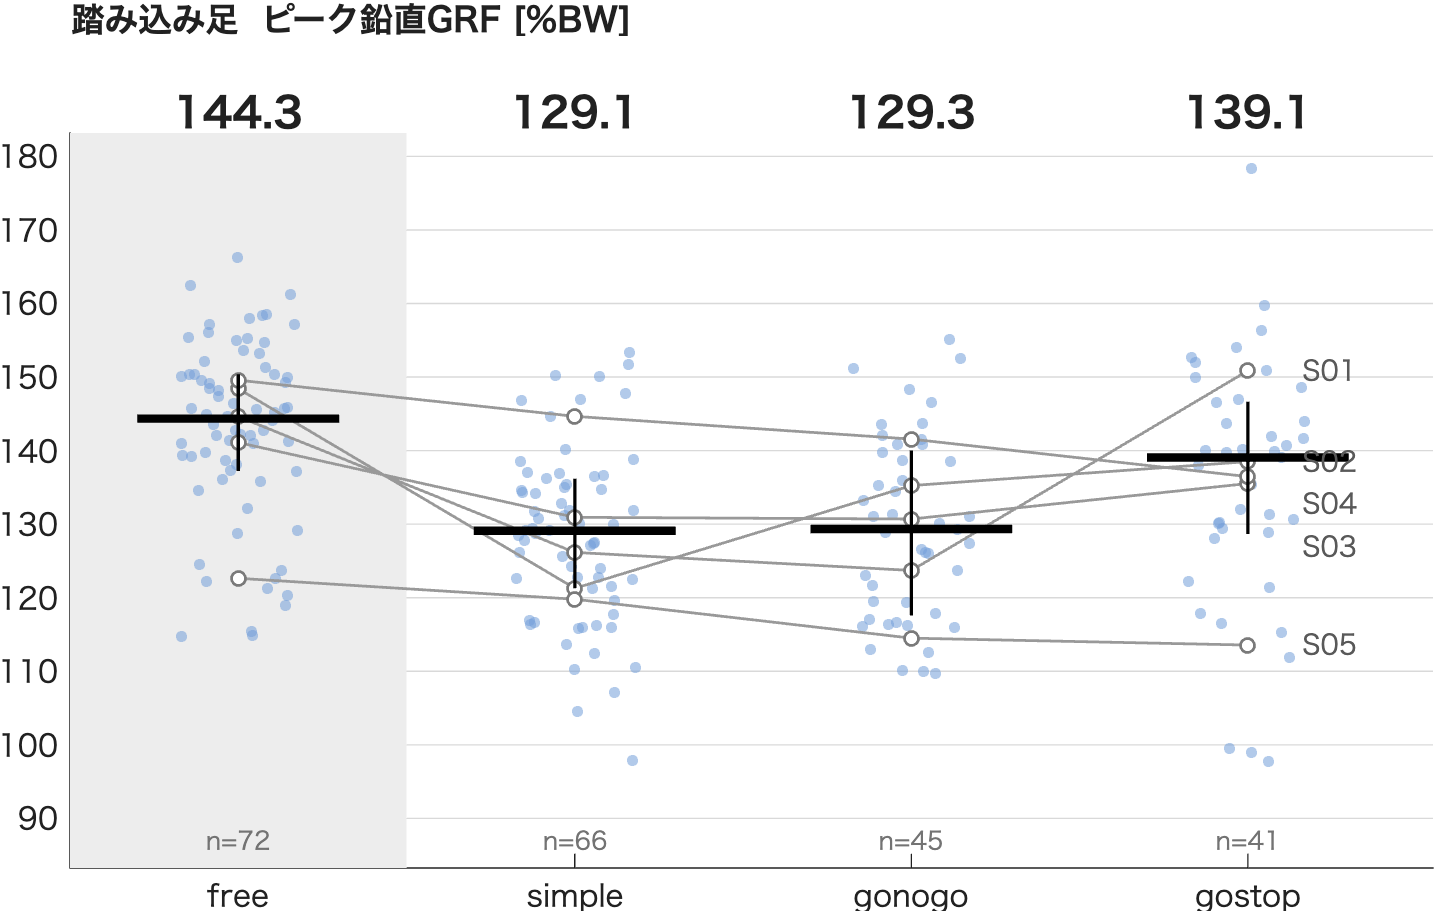
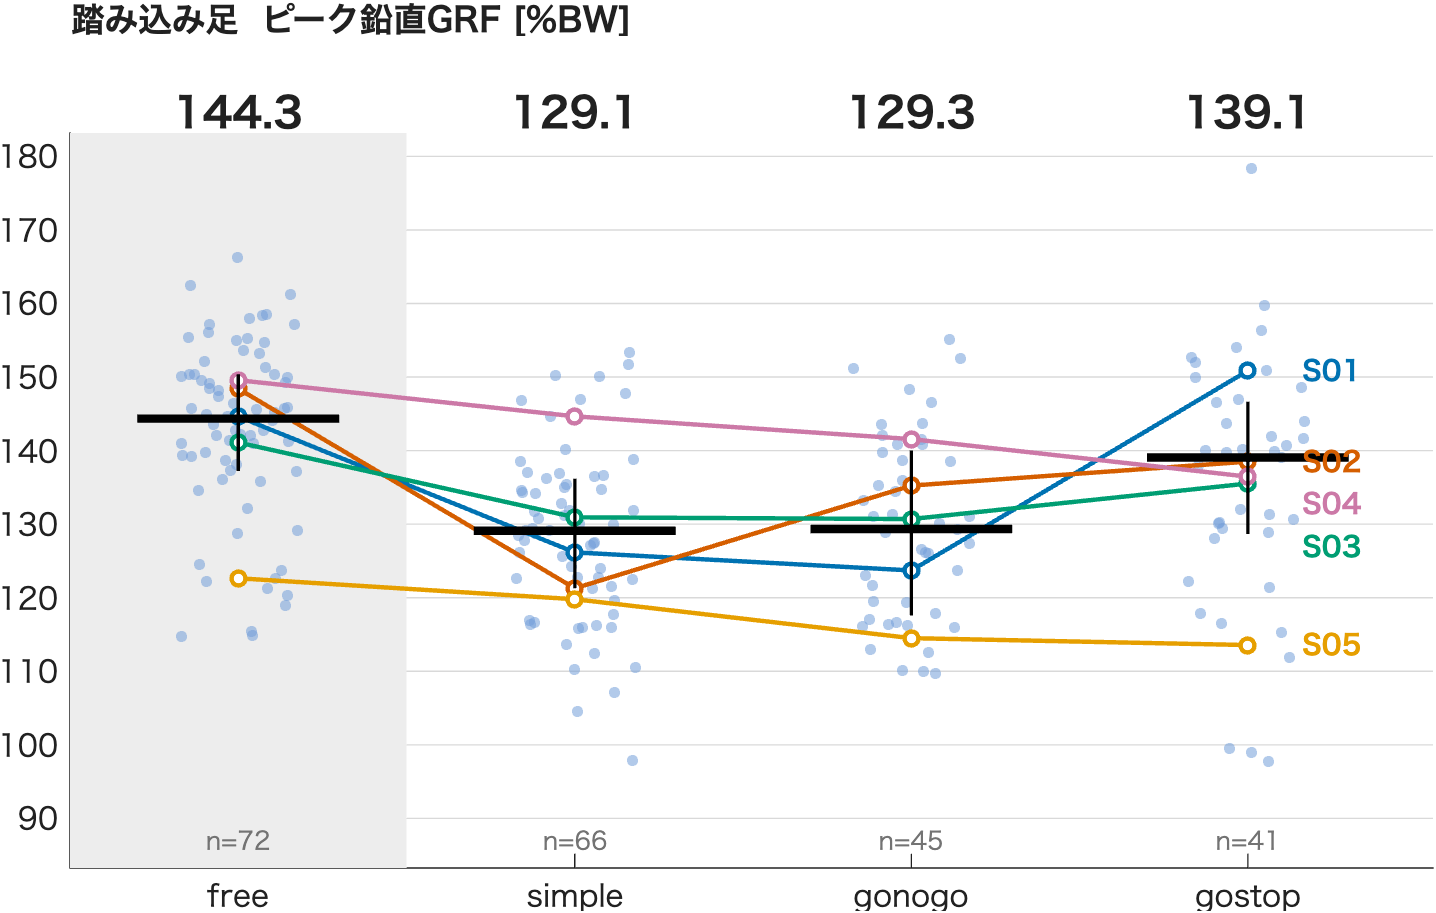
5.8 被験者ごとの色分け、代表試行のフォルダ集約、PNG のファイル名整理
- i0: 被験者ごとの線の色 SubjColor を追加（Okabe & Ito の推奨色から5色）。
  i1・i2・i4 が共通で読むので、図をまたいで同じ被験者が同じ色になる
- i1・i2・i4: 折れ線と被験者ラベルを色分けし、線を 1.6 pt に。凡例も修正
- i3: 被験者ごとの5枚を 代表試行プロット/ に出力するようにした。
  これまで手動コピーで中身が古くなっていた
- PNG のファイル名を指標名先頭に変更し、「新除外基準」を落とした
  （旧基準の図はすでに無く、対比する相手がいないため）
- log/2026-09-14_01.md を追加。有効試行の内訳（298→247→224→148）と、
  247→224 で落ちた23試行の理由を1本ずつ調べた結果を記録

diff --git a/Project002_反応時間課題バットスイング（加藤）/sandbox/5.8_踏み込み足Fzの立ち上がり/i1_plot_rfd_by_condition.m b/Project002_反応時間課題バットスイング（加藤）/sandbox/5.8_踏み込み足Fzの立ち上がり/i1_plot_rfd_by_condition.m
@@ -13,7 +13,7 @@
 %   SubjectArray, ConditionNameArray, nS, nC, nM
 %
 % 出力（このスクリプトと同じフォルダ）:
-%   条件別_全被験者_Fz立ち上がり_新除外基準.png ... 5指標を1枚にまとめた図
+%   Fz立ち上がり_条件別_全被験者.png ... 5指標を1枚にまとめた図
 %   個別グラフ/01_RT.png 〜 05_立ち上がり速度わりピーク力.png
 %     ... 同じパネルを指標ごとに1枚ずつ書き出したもの（スライドや原稿に貼る用）
 %
@@ -111,9 +111,12 @@ for im = 1:nM
         for ic = 1:nC
             if ~isempty(V{iS,ic,im}), subjMed(iS,ic) = median(V{iS,ic,im}) ; end
         end
-        plot(ax, 1:nC, subjMed(iS,:), '-', 'Color', lineColor, 'LineWidth', 1.0, ...
+        % ★ 灰一色だと折れ線の交差で被験者を追えない。i0 が決めた色を使う
+        %   （図をまたいで同じ被験者が同じ色になる）。線を太くしないと
+        %   細線では色が判別しにくい。
+        plot(ax, 1:nC, subjMed(iS,:), '-', 'Color', SubjColor(iS,:), 'LineWidth', 1.6, ...
             'Marker', 'o', 'MarkerSize', 5, 'MarkerFaceColor', 'w', ...
-            'MarkerEdgeColor', lineColor*0.8) ;
+            'MarkerEdgeColor', SubjColor(iS,:)) ;
     end
 
     % 条件の中央値（黒の太い横線）と四分位範囲（縦線）
@@ -140,8 +143,11 @@ for im = 1:nM
     end
     for k = 1:numel(order)
         iS = order(k) ;
+        % ★ ラベルも線と同じ色にする。重なり回避で位置をずらしているので、
+        %   色がないとどの線のラベルか分からなくなる。
         text(ax, nC+0.16, sv(k), sprintf('S%02d', SubjectArray(iS)), ...
-            'FontSize', 10, 'Color', [0.35 0.35 0.35], 'VerticalAlignment', 'middle') ;
+            'FontSize', 10, 'FontWeight', 'bold', 'Color', SubjColor(iS,:), ...
+            'VerticalAlignment', 'middle') ;
     end
 
     set(ax, 'XLim', [0.5 nC+0.55], 'YLim', [yLo yHi], ...
@@ -161,7 +167,7 @@ annotation('textbox', [0 (figH-47.25)/figH 1 44.1/figH], 'String', ...
     'FontSize', 15, 'FontWeight', 'bold', 'EdgeColor', 'none') ;
 
 annotation('textbox', [0 (figH-78.75)/figH 1 33.6/figH], 'String', ...
-    ['黒い横線 = 条件の中央値（縦線は四分位範囲） / 灰の折れ線 = 被験者ごとの中央値 / ' ...
+    ['黒い横線 = 条件の中央値（縦線は四分位範囲） / 色つきの折れ線 = 被験者ごとの中央値（色は被験者に対応） / ' ...
      '青点 = 個々の試行   ※ free は自己ペース条件のため参考値（網掛け）'], ...
     'HorizontalAlignment', 'center', 'VerticalAlignment', 'middle', ...
     'FontSize', 10.5, 'Color', [0.30 0.30 0.30], 'EdgeColor', 'none') ;
@@ -208,6 +214,9 @@ end
 
 %% ---- 7. PNG 出力 ----
 
-outPath = fullfile(thisDir, '条件別_全被験者_Fz立ち上がり_新除外基準.png') ;
+% ★ ファイル名は指標名を先頭に置く（2026-09-14）。フォルダを開いたときに
+%   何のグラフか一目で分かるようにするため。「新除外基準」は旧基準の図が
+%   もう無いので落とした。
+outPath = fullfile(thisDir, 'Fz立ち上がり_条件別_全被験者.png') ;
 exportgraphics(fig, outPath, 'Resolution', 200) ;
 fprintf('出力しました: %s\n', outPath) ;

diff --git a/Project002_反応時間課題バットスイング（加藤）/sandbox/5.8_踏み込み足Fzの立ち上がり/i4_plot_fz_at_peakvel.m b/Project002_反応時間課題バットスイング（加藤）/sandbox/5.8_踏み込み足Fzの立ち上がり/i4_plot_fz_at_peakvel.m
@@ -11,7 +11,7 @@
 %   SubjectArray, ConditionNameArray, nS, nC, Diag
 %
 % 出力:
-%   条件別_全被験者_スイング速度ピーク時Fz.png（このスクリプトと同じフォルダ）
+%   スイング速度ピーク時Fz_条件別_全被験者.png（このスクリプトと同じフォルダ）
 %
 % 指標の定義:
 %   スイング速度ピーク時の踏み込み足Fz [%BW]
@@ -110,9 +110,10 @@ for iS = 1:nS
     for ic = 1:nC
         if ~isempty(Vfz{iS,ic}), subjMed(iS,ic) = median(Vfz{iS,ic}) ; end
     end
-    plot(ax, 1:nC, subjMed(iS,:), '-', 'Color', lineColor, 'LineWidth', 1.0, ...
+    % ★ 色は i0 の SubjColor（図をまたいで同じ被験者が同じ色になる）。
+    plot(ax, 1:nC, subjMed(iS,:), '-', 'Color', SubjColor(iS,:), 'LineWidth', 1.6, ...
         'Marker', 'o', 'MarkerSize', 5, 'MarkerFaceColor', 'w', ...
-        'MarkerEdgeColor', lineColor*0.8) ;
+        'MarkerEdgeColor', SubjColor(iS,:)) ;
 end
 
 % 条件の中央値（黒の太い横線）と四分位範囲（縦線）
@@ -137,7 +138,8 @@ end
 for k = 1:numel(order)
     iS = order(k) ;
     text(ax, nC+0.16, sv(k), sprintf('S%02d', SubjectArray(iS)), ...
-        'FontSize', 10, 'Color', [0.35 0.35 0.35], 'VerticalAlignment', 'middle') ;
+        'FontSize', 10, 'FontWeight', 'bold', 'Color', SubjColor(iS,:), ...
+        'VerticalAlignment', 'middle') ;
 end
 
 set(ax, 'XLim', [0.5 nC+0.55], 'YLim', [yLo yHi], ...
@@ -152,7 +154,7 @@ annotation('textbox', [0 (figH-42)/figH 1 34/figH], 'String', ...
     'FontSize', 15, 'FontWeight', 'bold', 'EdgeColor', 'none') ;
 
 annotation('textbox', [0 (figH-72)/figH 1 30/figH], 'String', ...
-    ['黒い横線 = 条件の中央値（縦線は四分位範囲） / 灰の折れ線 = 被験者ごとの中央値 / ' ...
+    ['黒い横線 = 条件の中央値（縦線は四分位範囲） / 色つきの折れ線 = 被験者ごとの中央値（色は被験者に対応） / ' ...
      '青点 = 個々の試行   ※ free は自己ペース条件のため参考値（網掛け）'], ...
     'HorizontalAlignment', 'center', 'VerticalAlignment', 'middle', ...
     'FontSize', 10.5, 'Color', [0.30 0.30 0.30], 'EdgeColor', 'none') ;
@@ -171,6 +173,7 @@ annotation('textbox', [0 8/figH 1 100/figH], 'String', ...
 
 %% ---- 7. PNG 出力 ----
 
-outPath = fullfile(thisDir, '条件別_全被験者_スイング速度ピーク時Fz.png') ;
+% ★ ファイル名は指標名を先頭に置く（2026-09-14。i1 と同じ方針）。
+outPath = fullfile(thisDir, 'スイング速度ピーク時Fz_条件別_全被験者.png') ;
 exportgraphics(fig, outPath, 'Resolution', 200) ;
 fprintf('出力しました: %s\n', outPath) ;

diff --git a/Project002_反応時間課題バットスイング（加藤）/sandbox/5.8_踏み込み足Fzの立ち上がり/i2_plot_cv_by_condition.m b/Project002_反応時間課題バットスイング（加藤）/sandbox/5.8_踏み込み足Fzの立ち上がり/i2_plot_cv_by_condition.m
@@ -180,9 +180,11 @@ for im = 1:nM
 
     % 被験者ごとの CV（点と折れ線）
     for iS = 1:nS
-        plot(ax, 1:nC, C(iS,:), '-', 'Color', lineColor, 'LineWidth', 1.0, ...
-            'Marker', 'o', 'MarkerSize', 7, 'MarkerFaceColor', dotColor, ...
-            'MarkerEdgeColor', lineColor*0.8) ;
+        % ★ 色は i0 の SubjColor（i1・i4 と同じ被験者が同じ色になる）。
+        %   この図は 1点 = 1被験者なので、色がないと点がどの被験者か分からない。
+        plot(ax, 1:nC, C(iS,:), '-', 'Color', SubjColor(iS,:), 'LineWidth', 1.6, ...
+            'Marker', 'o', 'MarkerSize', 7, 'MarkerFaceColor', SubjColor(iS,:), ...
+            'MarkerEdgeColor', SubjColor(iS,:)*0.7) ;
     end
 
     % 5名の中央値（黒の太い横線）と四分位範囲（縦線）
@@ -209,7 +211,8 @@ for im = 1:nM
     for k = 1:numel(order)
         if isnan(sv(k)), continue, end
         text(ax, nC+0.16, sv(k), sprintf('S%02d', SubjectArray(order(k))), ...
-            'FontSize', 10, 'Color', [0.35 0.35 0.35], 'VerticalAlignment', 'middle') ;
+            'FontSize', 10, 'FontWeight', 'bold', ...
+            'Color', SubjColor(order(k),:), 'VerticalAlignment', 'middle') ;
     end
 
     set(ax, 'XLim', [0.5 nC+0.55], 'YLim', [yLo yHi], ...
@@ -227,7 +230,7 @@ annotation('textbox', [0 (figH-47.25)/figH 1 44.1/figH], 'String', ...
     'FontSize', 15, 'FontWeight', 'bold', 'EdgeColor', 'none') ;
 
 annotation('textbox', [0 (figH-78.75)/figH 1 33.6/figH], 'String', ...
-    ['青点 = 被験者1名の CV（その条件の全試行から算出） / 灰の折れ線 = 同一被験者 / ' ...
+    ['点 = 被験者1名の CV（その条件の全試行から算出） / 色つきの折れ線 = 同一被験者（色は被験者に対応） / ' ...
      '黒い横線 = 5名の中央値（縦線は四分位範囲）   ※ free は自己ペース条件のため参考値（網掛け）'], ...
     'HorizontalAlignment', 'center', 'VerticalAlignment', 'middle', ...
     'FontSize', 10.5, 'Color', [0.30 0.30 0.30], 'EdgeColor', 'none') ;
@@ -244,6 +247,7 @@ annotation('textbox', [0 5.25/figH 1 78.75/figH], 'String', ...
 
 %% ---- 9. PNG 出力 ----
 
-outPath = fullfile(thisDir, '条件別_全被験者_変動係数_新除外基準.png') ;
+% ★ ファイル名は指標名を先頭に置く（2026-09-14。i1 と同じ方針）。
+outPath = fullfile(thisDir, '変動係数_条件別_全被験者.png') ;
 exportgraphics(fig, outPath, 'Resolution', 200) ;
 fprintf('\n出力しました: %s\n', outPath) ;

diff --git a/Project002_反応時間課題バットスイング（加藤）/sandbox/5.8_踏み込み足Fzの立ち上がり/i3_plot_example_trials.m b/Project002_反応時間課題バットスイング（加藤）/sandbox/5.8_踏み込み足Fzの立ち上がり/i3_plot_example_trials.m
@@ -20,8 +20,9 @@
 %   i0_calc_rfd_metrics.m が作る Rec, ConditionNameArray, nC, dataDir, bG/aG
 %
 % 出力（このスクリプトと同じフォルダ）:
-%   代表試行_波形確認_新除外基準.png  ... 全被験者からまとめて代表を選んだ図
-%   代表試行_波形確認_S01.png 〜 S05.png ... 被験者ごとに代表を選んだ図
+%   代表試行波形_全被験者.png  ... 全被験者からまとめて代表を選んだ図
+%   代表試行プロット/代表試行波形_S01.png 〜 S05.png
+%     ... 被験者ごとに代表を選んだ図（5枚をフォルダにまとめてある）
 %   ★ 自動では書き出さない。図を見たうえでコマンドウィンドウで y と答えたときだけ
 %     出力する。確認は枚数ぶん尋ねず、まとめて1回だけ聞く。
 %
@@ -71,12 +72,18 @@ for ip = 1:numel(PickSubject)
 
     iPick = PickSubject(ip) ;
 
+    % ★ 被験者ごとの5枚は 代表試行プロット/ にまとめる（2026-09-14）。
+    %   全被験者の1枚だけはフォルダ直下に残す。5枚と性格が違う図なので、
+    %   同じ場所に置くと「6枚組の1枚」に見えてしまう。
     if iPick == 0
         tagText = '全被験者' ;
-        outName = '代表試行_波形確認_新除外基準.png' ;
+        % ★ ファイル名は図の中身を先頭に置く（2026-09-14。i1 と同じ方針）。
+        %   「新除外基準」は旧基準の図がもう無いので落とした。
+        outName = '代表試行波形_全被験者.png' ;
     else
         tagText = sprintf('S%02d', SubjectArray(iPick)) ;
-        outName = sprintf('代表試行_波形確認_S%02d.png', SubjectArray(iPick)) ;
+        outName = fullfile('代表試行プロット', ...
+            sprintf('代表試行波形_S%02d.png', SubjectArray(iPick))) ;
     end
 
 
@@ -214,6 +221,11 @@ for ip = 1:numel(PickSubject)
 
     FigList(end+1)  = fig ;                                                 %#ok<SAGROW>
     PathList{end+1} = fullfile(thisDir, outName) ;                          %#ok<SAGROW>
+
+    % ★ 出力先のフォルダが無ければ作る。exportgraphics は親フォルダを
+    %   作ってくれないので、無いと書き出しの段階で落ちる。
+    outParent = fileparts(PathList{end}) ;
+    if ~isfolder(outParent), mkdir(outParent) ; end
 end
 
 

diff --git a/Project002_反応時間課題バットスイング（加藤）/sandbox/5.8_踏み込み足Fzの立ち上がり/i0_calc_rfd_metrics.m b/Project002_反応時間課題バットスイング（加藤）/sandbox/5.8_踏み込み足Fzの立ち上がり/i0_calc_rfd_metrics.m
@@ -41,6 +41,7 @@
 %   BWest      ... [1 × nS] 推定体重 [N]（%BW の分母）
 %   MetricName ... 指標名（i1 の図のタイトルに使う）
 %   SubjectArray / ConditionNameArray / nS / nC / nM
+%   SubjColor  ... [nS × 3] 被験者ごとの線の色（i1・i2・i4 が共通で使う）
 %   Diag       ... 検出の内訳（除外理由の集計）。nBadBWRef は「旧 h0 なら
 %                  除外されていた試行数」で、参考のために数えるだけである
 %   Rec        ... 試行ごとの素性と検出時刻（i3_plot_example_trials.m が波形確認に使う）
@@ -113,6 +114,17 @@ Prm = parameters ;
 
 SubjectArray       = 1:5 ;
 ConditionNameArray = {'free', 'simple', 'gonogo', 'gostop'} ;
+
+% ★ 被験者ごとの色（2026-09-14）。i1・i2・i4 が共通で使う。
+%   同じ被験者が図をまたいで同じ色になるように、算出側で一度だけ決める。
+%   色は Okabe & Ito のカラーユニバーサルデザイン推奨色から5色。
+%   グレースケール印刷でも明度が分かれ、2型・3型色覚でも区別できる。
+%   ★ 行の順序は SubjectArray に対応する。被験者を増やすときはここに足す。
+SubjColor = [0.000 0.447 0.698 ;    % S01  青
+             0.835 0.369 0.000 ;    % S02  朱
+             0.000 0.620 0.451 ;    % S03  緑
+             0.800 0.475 0.655 ;    % S04  紫
+             0.902 0.624 0.000] ;   % S05  橙
 
 % ★ 指標の追加はここ（1/2）。名前を足したら 3-3 に算出を足す。
 MetricName = { ...

diff --git a/Project002_反応時間課題バットスイング（加藤）/log/2026-09-14_01.md b/Project002_反応時間課題バットスイング（加藤）/log/2026-09-14_01.md
@@ -1,0 +1,160 @@
+作業日：2026-09-14
+
+ユーザー：加藤 和太郎（student）
+
+セッションの概要：
+
+**有効試行の内訳を洗い出し、図の見せ方（色・配置・ファイル名）を整えたセッション。**
+指標の定義と除外基準には手を触れていない。
+
+- **有効試行を段階ごとに数え直した。** 記録 298 → Go 247 → 5指標が揃った 224 →
+  スイング速度ピーク時の Fz 148。床反力の欠損（除外基準②）で落ちた Go 試行は 0 本
+- **247 → 224 で落ちた 23 本を1本ずつ調べた。** 中身は下の「2.」のとおりで、
+  **計測の失敗ではなく、検出アルゴリズムと被験者の構え方が合っていないことが原因**
+  だと分かった。S03 に 10 件、S05 に 8 件と偏っている
+- **被験者ごとの折れ線を色分けした。** 灰一色では折れ線の交差で被験者を追えなかった。
+  色は `i0` に `SubjColor` として置き、`i1`・`i2`・`i4` が共通で読む。
+  図をまたいで同じ被験者が同じ色になる
+- **代表試行の図5枚を `代表試行プロット/` にまとめた。** これまで手動コピーだったので
+  中身が古いままだった。`i3` の出力先を変えたので、以後は実行のたびに更新される
+- **PNG のファイル名を指標名先頭に変えた。** フォルダを開いたときに何のグラフか
+  一目で分かるようにするため。「新除外基準」は旧基準の図がもう無いので落とした
+
+備考（未解決課題など）：
+
+**このセッションで見つかった、検討が必要な事項**
+
+- **S03・S05 の構えが検出アルゴリズムの前提と合っていない。**
+  `i0` は「構えでは踏み込み足が浮いていて約 3 N」を前提に、接地を Fz2 > 50 N で
+  判定している。ところが S03・S05 は cue の時点ですでに 50 N を超えている試行があり
+  （cue 時点の Fz2 が 0.5〜59.9 %BW）、探索窓が長さ 0 になって落ちる。
+  **simple が 75 → 66 と落ちた 9 本の中身もこの2名**なので、条件の差として
+  読むと誤解を招く。閾値を被験者ごとに決めるなどの手当てを検討したい
+- **onset 検出は「立ち上がりの瞬間」を探しているので、cue より前に動き出した試行を
+  拾えない。** 9 件中 7 件は窓の最初から最後まで Fx が閾値を超えっぱなしだった。
+  力自体は出ている（Fx の上昇 72〜101 N）ので、データが悪いわけではない
+- **個々の試行の点（薄い青）が S01 の線の色と近い。** 点を灰色にするかは保留
+
+**持ち越している課題**
+
+1. `i0` の Go 判定が 5.6 と違う（`i0` は LED から自前、`p0` は `x4` の `CueText`）
+2. `技術説明.md` §（704 行あたり）の `g0` との n の差の記述が古い
+3. S02 gostop 試行2 の Fz2 がゼロ点ずれの疑い
+4. `i4` の新指標は S04 が 48 本中 9 本しか残らず、条件比較の材料としては弱い
+
+---
+
+## AIとの個別のやり取り
+
+### 1. 有効試行の内訳
+
+**指示・質問：**
+今回のFz分析の有効試行について教えてください
+
+**AIの対応：**
+`i0` を実行し、`x4` の `CueText` と突き合わせて段階別・条件別・被験者別に集計した。
+
+**決定事項・結果：**
+
+| 段階 | 試行数 |
+|---|---|
+| 記録された全試行 | 298 |
+| Go 試行 | 247 |
+| 5指標が揃った試行 | 224 |
+| スイング速度ピーク時の Fz | 148 |
+
+条件別（全試行／Go／5指標／ピーク時 Fz）：
+free 73/73/72/43、simple 75/75/66/45、gonogo 75/50/45/32、gostop 75/49/41/28。
+
+被験者別の 5指標／ピーク時 Fz：
+S01 46/35、S02 49/46、S03 40/17、S04 48/**9**、S05 41/41。
+床反力だけの 5指標は 40〜49 とほぼ均等だが、`top` マーカーに依存する
+ピーク時 Fz は S04 が 9 本しか残らない。
+
+---
+
+### 2. 落ちた23試行の理由
+
+**指示・質問：**
+cue から接地までの窓が短い … 13／onset が検出できない … 9／ピークが接地から 0.5 s 以上離れている … 1
+このそれぞれの理由について教えてください
+
+**AIの対応：**
+`i0` のループを再現する診断スクリプトを書き、23試行を1本ずつ調べた。
+
+**決定事項・結果：**
+
+**(A) cue→接地 の窓が短い（13 件）**
+
+13 件中 10 件は **cue の時点ですでに Fz2 が 50 N を超えていた**（cue→50N超えが 0.0 ms）。
+cue 時点の Fz2 は 0.5〜59.9 %BW。**該当は S03 が 7 件、S05 が 6 件で、他の3名は 0 件**。
+構えで踏み込み足を浮かせきらず、体重を残したまま待っている。
+
+**(B) onset 未検出（9 件）**
+
+onset の判定は `~isOver(k-1) && all(isOver(k:k+19))` で、**立ち上がりの瞬間**を探している。
+9 件のうち **7 件は窓の最初から最後まで Fx が閾値を超えっぱなし**だった
+（例：S03 free 行6 は窓 710 ms 全部が閾値超え）。超え始めた瞬間が窓の中に無いので
+検出が空振りする。cue より前に動き出していた試行。Fx の上昇量は 72〜101 N あり、
+力は出ている。残り 2 件（S04 simple 行7、S05 simple 行3）は窓が 64・112 ms と短く、(A) に近い。
+
+**(C) ピークが接地から遠い（1 件）**
+
+S02 gonogo 行13 のみ。接地 545 ms、ピーク 1806 ms（接地の 1261 ms 後、上限 500 ms）。
+スイングの山（662 ms）ではなくスイング後の別の山が 2.8% だけ高く、そちらが選ばれていた。
+
+---
+
+### 3. 被験者ごとの色分け
+
+**指示・質問：**
+それぞれの指標の解析グラフについて、被験者ごとの灰色の実線の色を変えたい。
+
+**AIの対応：**
+`i0` に `SubjColor` を追加し、`i1`・`i2`・`i4` がそれを読むようにした。
+
+**決定事項・結果：**
+
+- 色は Okabe & Ito のカラーユニバーサルデザイン推奨色から5色
+  （S01 青／S02 朱／S03 緑／S04 紫／S05 橙）。
+  2型・3型色覚でも区別でき、グレースケール印刷でも明度が分かれる
+- 右端の被験者ラベルも同じ色にした。重なり回避で位置をずらしているので、
+  色がないとどの線のラベルか分からなくなるため
+- 線を 1.0 → 1.6 pt に太くした（細線では色が判別しにくい）
+- 副題の凡例を「灰の折れ線」→「色つきの折れ線（色は被験者に対応）」に修正
+
+---
+
+### 4. 代表試行の図をフォルダにまとめる
+
+**指示・質問：**
+各被験者の代表試行グラフは１つのフォルダにまとめてください
+
+**決定事項・結果：**
+
+- `i3` の出力先を変え、被験者ごとの5枚を `代表試行プロット/` に書き出すようにした。
+  `exportgraphics` は親フォルダを作らないので、無ければ `mkdir` する処理を入れた
+- 全被験者の1枚だけはフォルダ直下に残した。5枚とは性格の違う図なので、
+  同じ場所に置くと「6枚組の1枚」に見えてしまうため
+- これまで `代表試行プロット/` は手動コピーで、中身が 9/11 時点のまま古くなっていた
+
+---
+
+### 5. PNG のファイル名を指標名先頭に
+
+**指示・質問：**
+グラフ名を先に持ってきて何のグラフか一目でわかるようにしてください。タイトルに入らない要素はここで省いておいて
+
+**決定事項・結果：**
+
+| 旧 | 新 |
+|---|---|
+| 条件別_全被験者_Fz立ち上がり_新除外基準.png | Fz立ち上がり_条件別_全被験者.png |
+| 条件別_全被験者_変動係数_新除外基準.png | 変動係数_条件別_全被験者.png |
+| 条件別_全被験者_スイング速度ピーク時Fz.png | スイング速度ピーク時Fz_条件別_全被験者.png |
+| 代表試行_波形確認_新除外基準.png | 代表試行波形_全被験者.png |
+| 代表試行プロット/代表試行_波形確認_S01.png 〜 | 代表試行プロット/代表試行波形_S01.png 〜 |
+
+省いたのは「新除外基準」。旧基準の図（`h` 系）はすでに削除されていて対比する相手が
+いないので、名前に残す意味がなくなっていた。`個別グラフ/` は `01_RT.png` のように
+もともと指標名が先頭なので触っていない。
